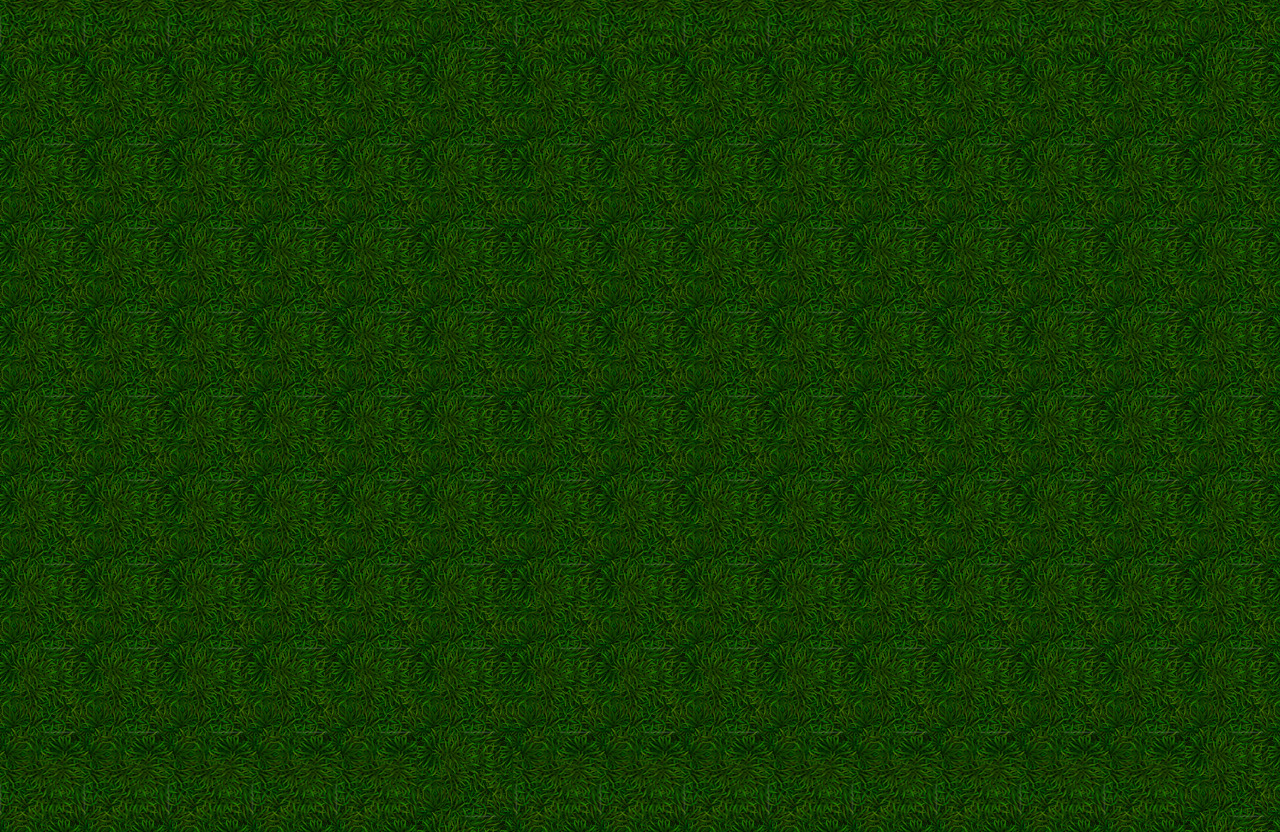
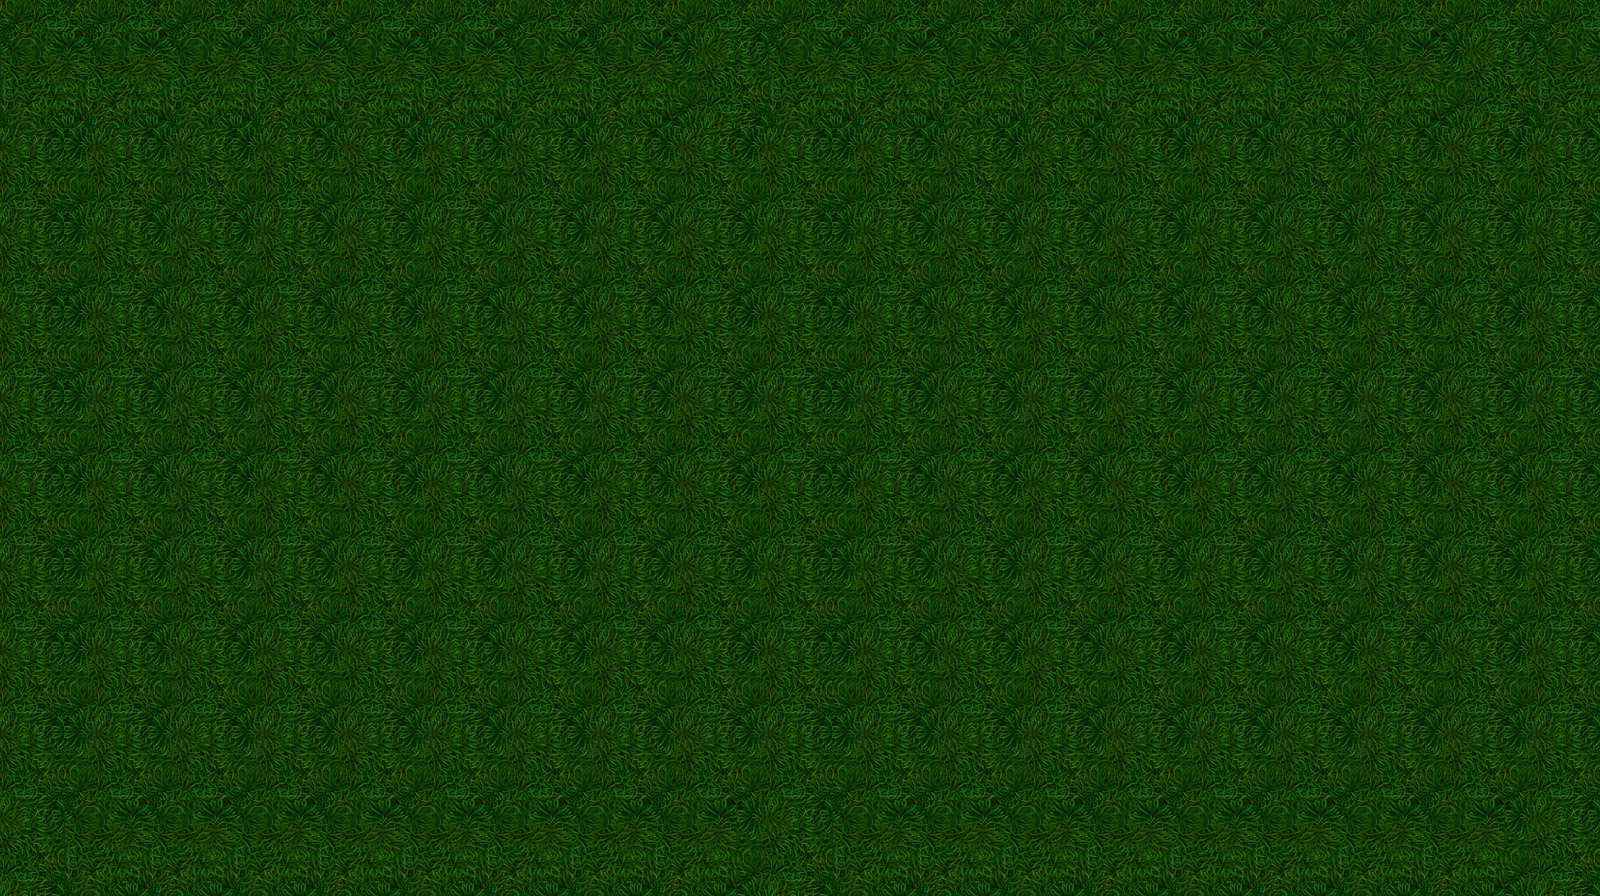
marire rezolutie

diff --git a/snake.cpp b/snake.cpp
@@ -6,8 +6,8 @@
 #include <ctime>
 #define element Entity(0,0,tail)
 using namespace std;
-const int width=1280;
-const int height=832;
+const int width=1600;
+const int height=896;
 int main(int argc,char* args[])
 {
     SDL_Renderer* renderer;
@@ -18,7 +18,7 @@ int main(int argc,char* args[])
 	SDL_Texture* tail = window.loadTexture("Texturi/tail.png");
 	Entity entities[3] = { Entity(0,0, grass),
 						  Entity(768 / 2, 768 / 2, snaketex),
-						  Entity(rand() % 20 * 64, rand() % 13 * 64, fruit) };
+						  Entity(rand() % 25 * 64, rand() % 14 * 64, fruit) };
 	std::vector <Entity> body(50, element);
     bool GameRunning=true;
     SDL_Event e;
@@ -79,25 +79,25 @@ int main(int argc,char* args[])
 				GameRunning = false;
 		}
 		if (entities[1].x == entities[2].x && entities[1].y == entities[2].y) {
-			entities[2].x = rand() % 20 * 64;
-			entities[2].y = rand() % 13 * 64;
+			entities[2].x = rand() % 25 * 64;
+			entities[2].y = rand() % 14 * 64;
 			tails++;
 		}
 		for(int i=0;i<tails;i++)
 		{
 			if(entities[2].x==body[i].x&&entities[2].y==body[i].y)
 			{
-				entities[2].x = rand() % 20 * 64;
-				entities[2].y = rand() % 13 * 64;
+				entities[2].x = rand() % 25 * 64;
+				entities[2].y = rand() % 14 * 64;
 			}
 		}
 		if(entities[1].x<0)
-		entities[1].x=20*64;
-		if(entities[1].x>20*64)
+		entities[1].x=25*64;
+		if(entities[1].x>25*64)
 		entities[1].x=0;
 		if(entities[1].y<0)
-		entities[1].y=13*64;
-		if(entities[1].y>13*64)
+		entities[1].y=14*64;
+		if(entities[1].y>14*64)
 		entities[1].y=0;
 		
 

diff --git a/renderwindow.cpp b/renderwindow.cpp
@@ -1,8 +1,8 @@
 #include <renderwindow.h>
 
-RenderWindow::RenderWindow(const char* p_title, int p_w, int p_h)
+RenderWindow::RenderWindow(const char* p_title, int p_width, int p_height)
 :window(NULL), renderer(NULL){
-    window = SDL_CreateWindow(p_title, SDL_WINDOWPOS_UNDEFINED, SDL_WINDOWPOS_UNDEFINED, p_w, p_h, SDL_WINDOW_SHOWN);
+    window = SDL_CreateWindow(p_title, SDL_WINDOWPOS_UNDEFINED, SDL_WINDOWPOS_UNDEFINED, p_width, p_height, SDL_WINDOW_SHOWN);
     renderer = SDL_CreateRenderer(window, -1, SDL_RENDERER_ACCELERATED);
 }
 
